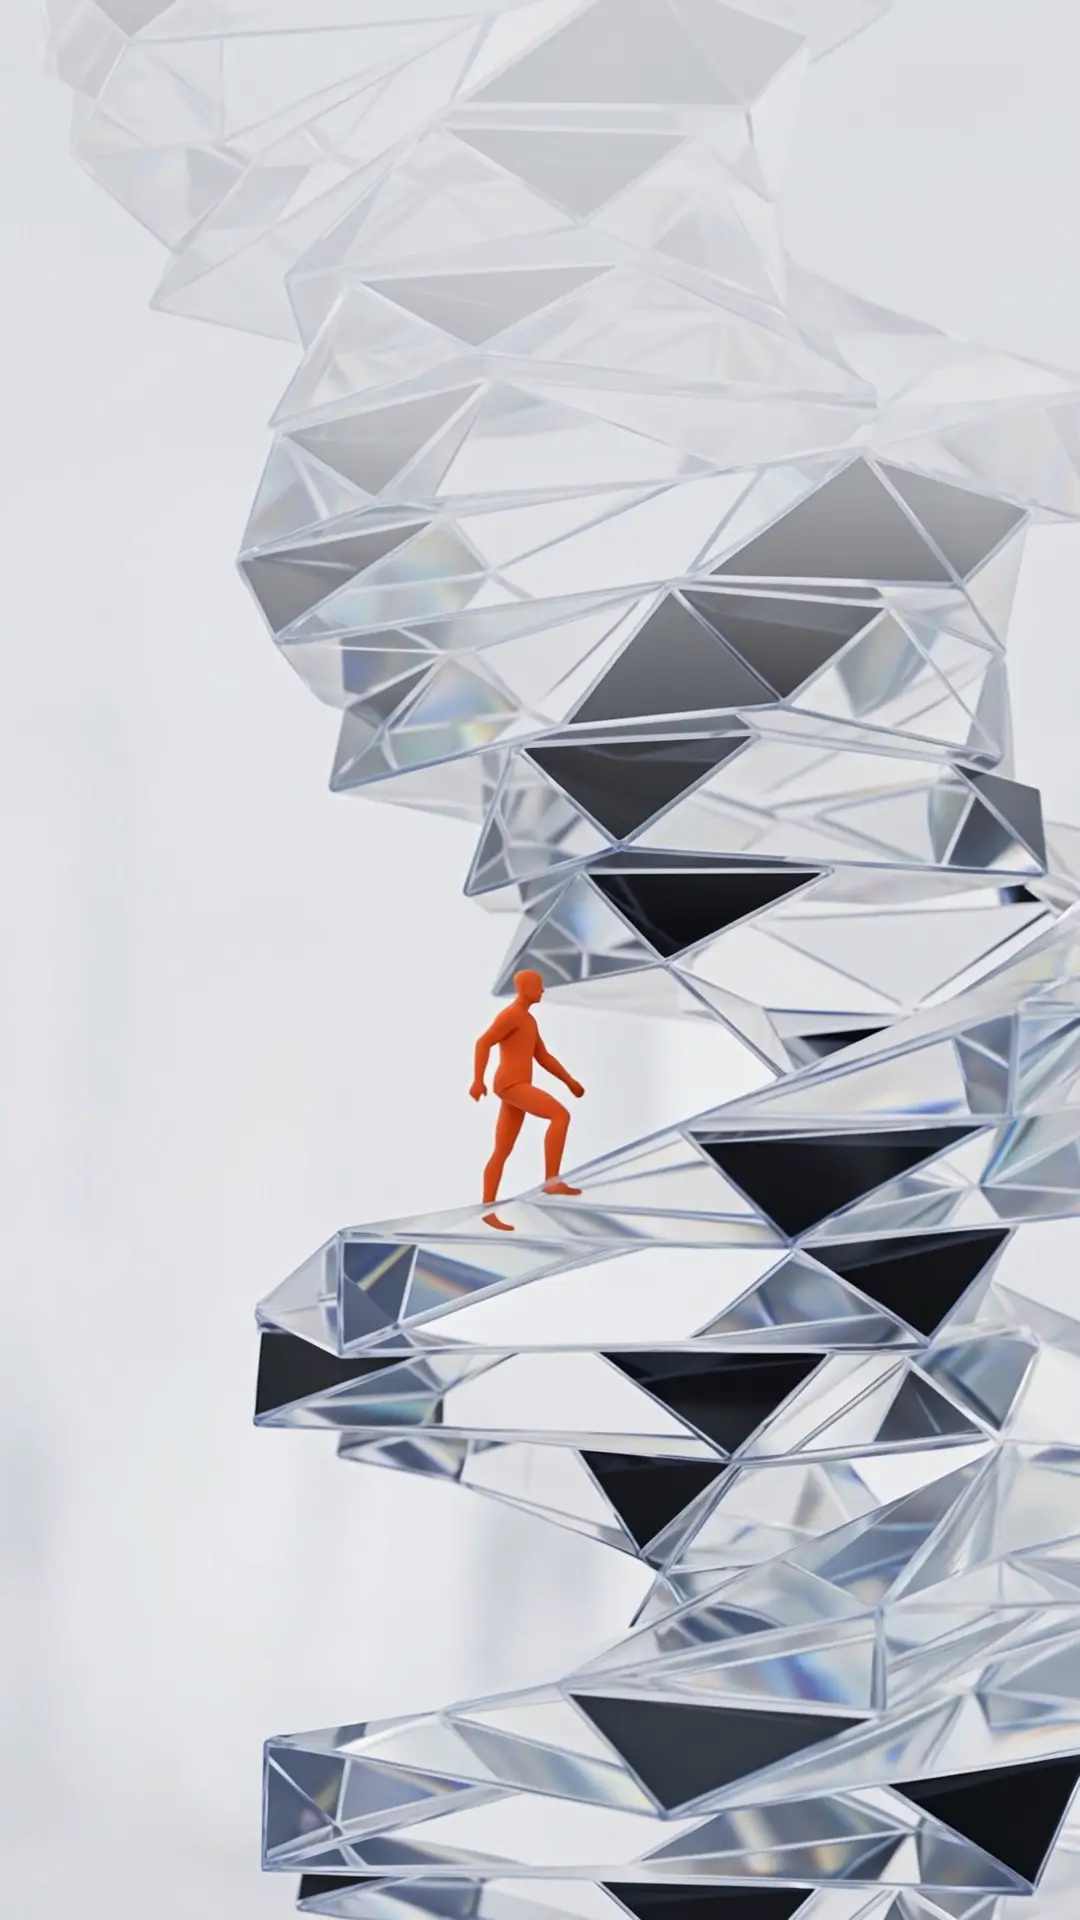
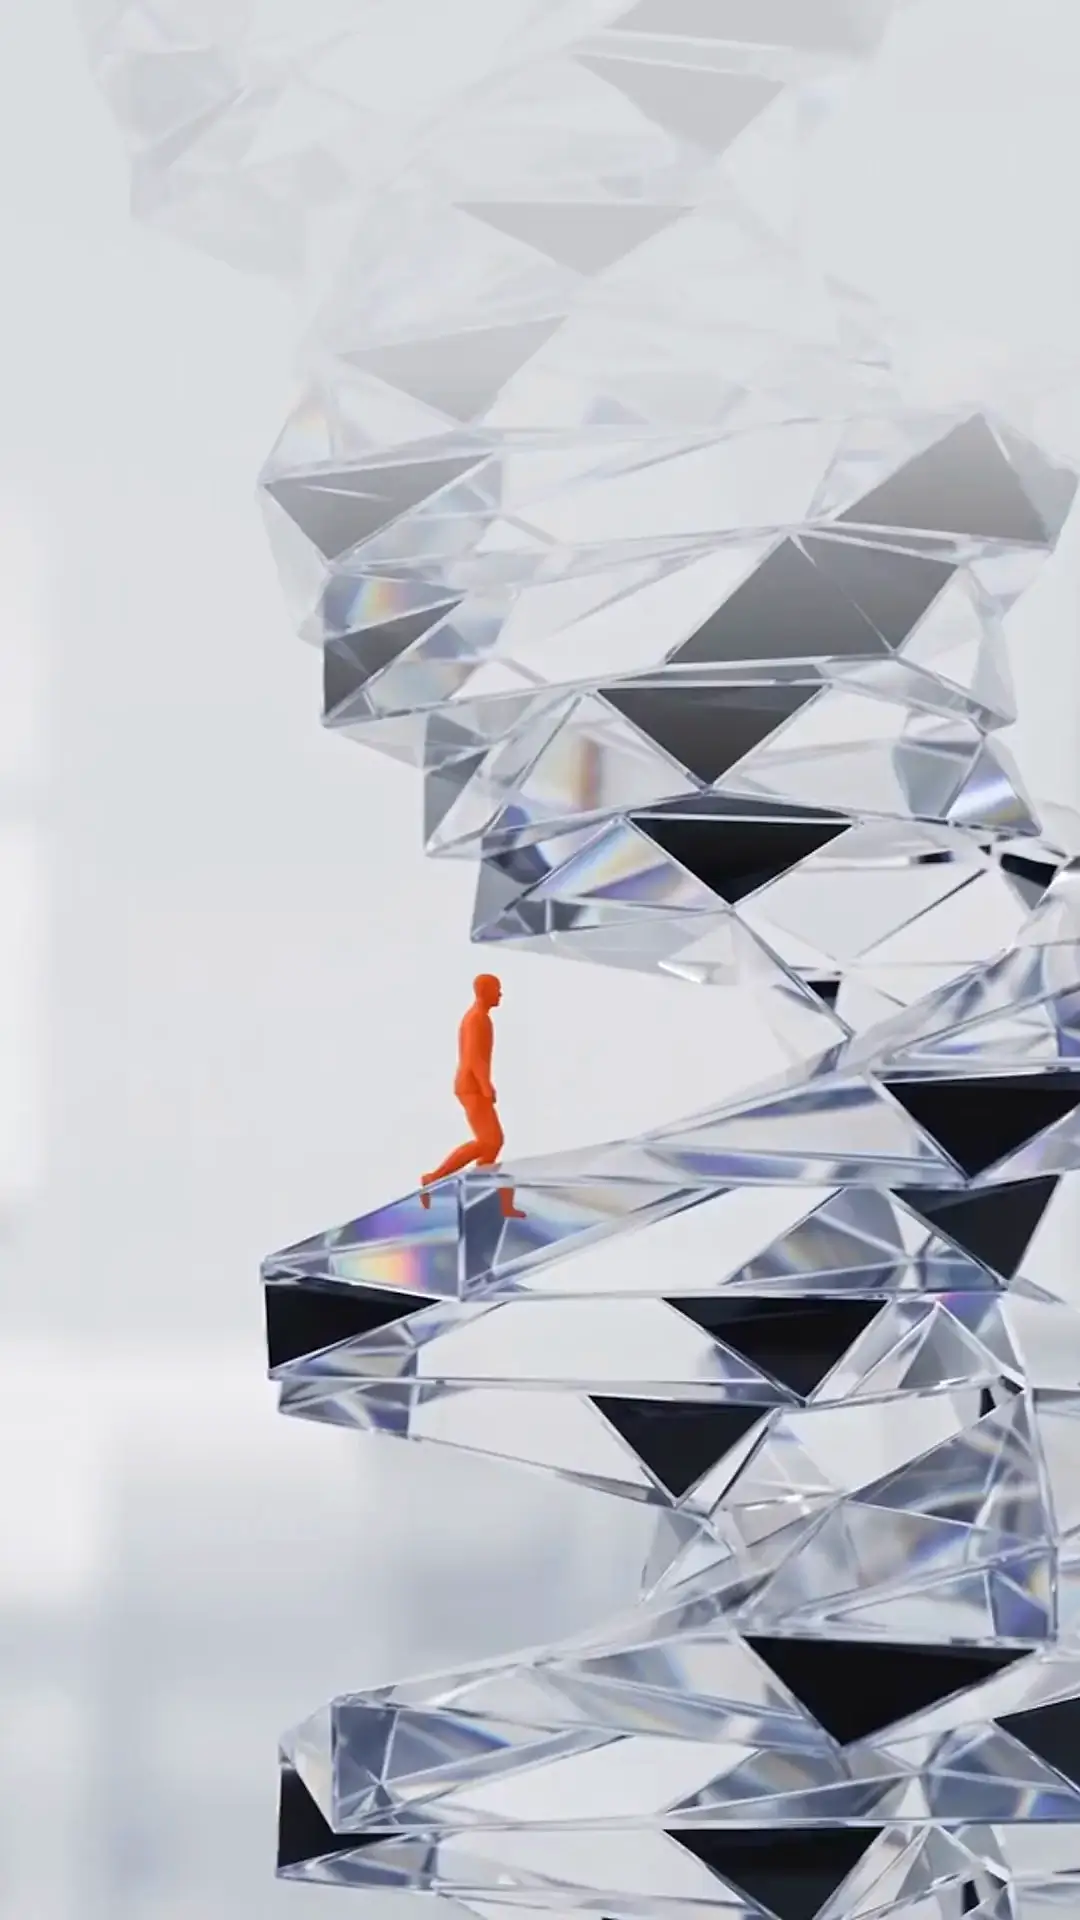
fix: restore 3D stats charts rendering and optimize crisp hero WebP posters with Tinify

diff --git a/apps/astro-site/src/compat/dynamic.tsx b/apps/astro-site/src/compat/dynamic.tsx
@@ -1,4 +1,4 @@
-import { type ComponentType, useEffect, useRef, useState } from "react";
+import { type ComponentType, useEffect, useState } from "react";
 
 type LoadedComponent<Props> = ComponentType<Props> | { default: ComponentType<Props> };
 type Loader<Props> = () => Promise<LoadedComponent<Props>>;
@@ -9,58 +9,23 @@ export default function dynamic<Props extends object>(
 ) {
   return function DynamicComponent(props: Props) {
     const [Component, setComponent] = useState<ComponentType<Props> | null>(null);
-    const containerRef = useRef<HTMLDivElement | null>(null);
 
     useEffect(() => {
       let mounted = true;
-      const load = () => {
-        void loader().then((loaded) => {
-          if (!mounted) return;
-          setComponent(() => ("default" in loaded ? loaded.default : loaded));
-        });
-      };
-
-      if (typeof IntersectionObserver === "undefined" || !containerRef.current) {
-        if (typeof requestIdleCallback !== "undefined") {
-          const id = requestIdleCallback(load, { timeout: 2500 });
-          return () => {
-            mounted = false;
-            cancelIdleCallback(id);
-          };
-        }
-        const timer = setTimeout(load, 100);
-        return () => {
-          mounted = false;
-          clearTimeout(timer);
-        };
-      }
-
-      const observer = new IntersectionObserver(
-        (entries) => {
-          if (entries.some((entry) => entry.isIntersecting)) {
-            observer.disconnect();
-            load();
-          }
-        },
-        { rootMargin: "600px" },
-      );
-
-      observer.observe(containerRef.current);
-
+      void loader().then((loaded) => {
+        if (!mounted) return;
+        setComponent(() => ("default" in loaded ? loaded.default : loaded));
+      });
       return () => {
         mounted = false;
-        observer.disconnect();
       };
     }, []);
 
     if (!Component) {
       const Loading = options.loading;
-      return (
-        <div ref={containerRef} style={{ minHeight: "1px", display: "contents" }}>
-          {Loading ? <Loading /> : null}
-        </div>
-      );
+      return Loading ? <Loading /> : null;
     }
     return <Component {...props} />;
   } as ComponentType<Props> & { preload?: () => Promise<LoadedComponent<Props>> };
 }
+

diff --git a/src/components/SplineChart.tsx b/src/components/SplineChart.tsx
@@ -7,7 +7,7 @@ export default function SplineChart() {
   const containerRef = useRef<HTMLDivElement>(null);
   const label2016Ref = useRef<HTMLDivElement>(null);
   const label2026Ref = useRef<HTMLDivElement>(null);
-  const isVisibleRef = useRef(false);
+  const isVisibleRef = useRef(true);
 
   useEffect(() => {
     const container = containerRef.current;

diff --git a/src/components/SphereChart.tsx b/src/components/SphereChart.tsx
@@ -5,7 +5,7 @@ import * as THREE from "three";
 
 export default function SphereChart() {
   const containerRef = useRef<HTMLDivElement>(null);
-  const isVisibleRef = useRef(false);
+  const isVisibleRef = useRef(true);
 
   useEffect(() => {
     const container = containerRef.current;

diff --git a/src/components/RingChart.tsx b/src/components/RingChart.tsx
@@ -5,7 +5,7 @@ import * as THREE from "three";
 
 export default function RingChart() {
   const containerRef = useRef<HTMLDivElement>(null);
-  const isVisibleRef = useRef(false);
+  const isVisibleRef = useRef(true);
 
   useEffect(() => {
     const container = containerRef.current;
